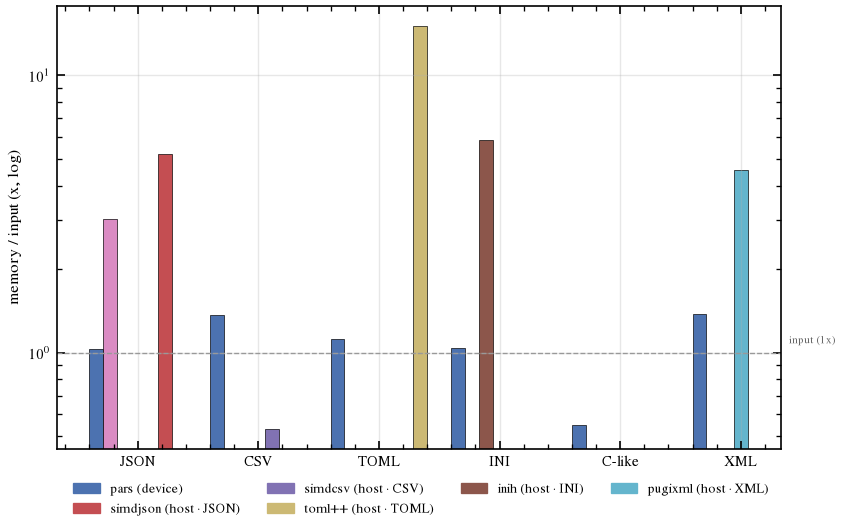
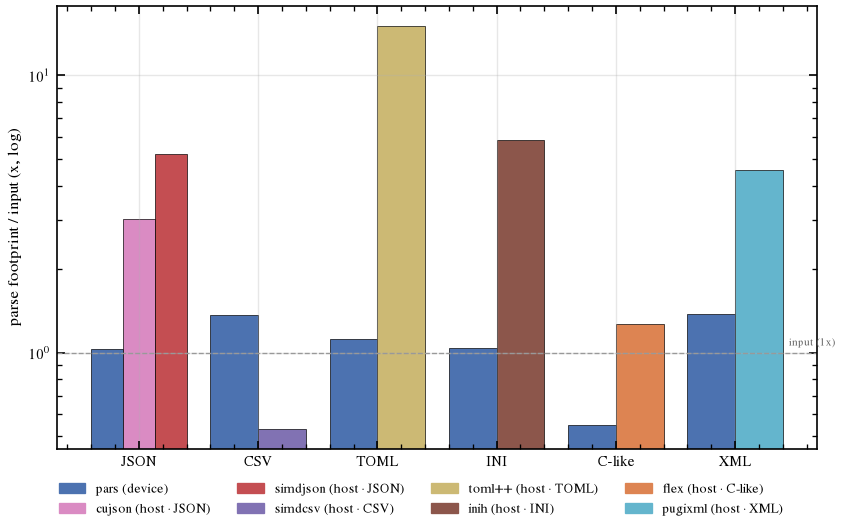
plot: memory figure groups bars per language (adjacent) + complete C-like SOTA (flex 1.27x)

diff --git a/paper/plots/paperplots.py b/paper/plots/paperplots.py
@@ -445,36 +445,40 @@ def figure_parse(pars_tiers, parse_data, base, scale=None):
 
 
 def figure_memory(mem):
-    """Memory footprint vs input, per language: pars (device) vs SOTA (host)."""
+    """Memory footprint vs input, per language: pars (device) vs SOTA (host).
+
+    Bars are laid out per language so a language's bars are adjacent."""
     import matplotlib.pyplot as plt
     from matplotlib.patches import Patch
 
     fmts = [f for f in FMT_ORDER if f in set(mem["format"])]
-    impls = ["pars"] + sorted(set(mem["impl"]) - {"pars"})
-    n = len(impls)
-    w = 0.8 / n
-    x = np.arange(len(fmts))
     fig, ax = plt.subplots(figsize=FIGSIZE_WIDE, layout="constrained")
-    for i, sv in enumerate(impls):
-        vals = []
-        for f in fmts:
-            r = mem[(mem.format == f) & (mem.impl == sv)]["ratio"]
-            vals.append(float(r.iloc[0]) if len(r) else np.nan)
-        col = PARS_COLOR["N1a"] if sv == "pars" else _sota_color(sv)
-        ax.bar(x + (i - (n - 1) / 2) * w, vals, w, color=col, edgecolor="black", linewidth=0.4)
+    for xi, f in enumerate(fmts):
+        sub = mem[mem.format == f]
+        impls = ["pars"] + [i for i in dict.fromkeys(sub["impl"]) if i != "pars"]
+        nf = len(impls)
+        wf = 0.8 / max(nf, 1)
+        for j, sv in enumerate(impls):
+            r = sub[sub.impl == sv]["ratio"]
+            if not len(r):
+                continue
+            v = float(r.iloc[0])
+            col = PARS_COLOR["N1a"] if sv == "pars" else _sota_color(sv)
+            ax.bar(xi + (j - (nf - 1) / 2) * wf, v, wf, color=col, edgecolor="black",
+                   linewidth=0.4)
     ax.axhline(1.0, color="#999999", linestyle="--", linewidth=0.8)
-    ax.text(len(fmts) - 0.6, 1.08, "input (1x)", color="#666666", fontsize="x-small")
+    ax.text(len(fmts) - 0.55, 1.06, "input (1x)", color="#666666", fontsize="x-small")
     ax.set_yscale("log")
-    ax.set_xticks(x)
+    ax.set_xticks(np.arange(len(fmts)))
     ax.set_xticklabels([LABELS.get(f, f) for f in fmts])
-    ax.set_ylabel("memory / input (x, log)")
+    ax.set_ylabel("parse footprint / input (x, log)")
 
     handles = [Patch(color=PARS_COLOR["N1a"], label="pars (device)")]
     for f in fmts:
-        s = mem[(mem.format == f) & (mem.impl != "pars")]
-        if len(s):
-            impl = str(s["impl"].iloc[0])
-            handles.append(Patch(color=_sota_color(impl), label=f"{impl} (host · {LABELS.get(f, f)})"))
+        for impl in dict.fromkeys(mem[(mem.format == f) & (mem.impl != "pars")]["impl"]):
+            handles.append(
+                Patch(color=_sota_color(str(impl)), label=f"{impl} (host · {LABELS.get(f, f)})")
+            )
     seen: dict[str, object] = {}
     for h in handles:
         seen.setdefault(h.get_label(), h)

diff --git a/docs/model/algebra.md b/docs/model/algebra.md
@@ -183,7 +183,7 @@ toml++（TOML）、pugixml（XML）、inih（INI）。**数据**：JSON 用**真
 | JSON 结构索引（finite+stack，device） | 39.8 GB/s |
 | JSON + 括号配对 | 19.5 GB/s |
 | tree schema 归约（device, R7） | **48.2 GB/s** |
-| 内存占用（÷输入，256 MB） | pars ≈**1.0–1.4×**（device，最低/次低）；simdjson 5.2× / toml++ 15× / inih 5.8× / pugixml 4.6× / cuJSON 3.0× / simdcsv 0.5×（图 `fig_memory`） |
+| 内存占用（÷输入，256 MB） | pars ≈**1.0–1.4×**（device，最低/次低）；simdjson 5.2× / cuJSON 3.0× / toml++ 15× / inih 5.8× / pugixml 4.6× / simdcsv 0.5× / flex 1.3×（图 `fig_memory`） |
 
 ### 8.4 JSON（真实语料，GB/s）
 
